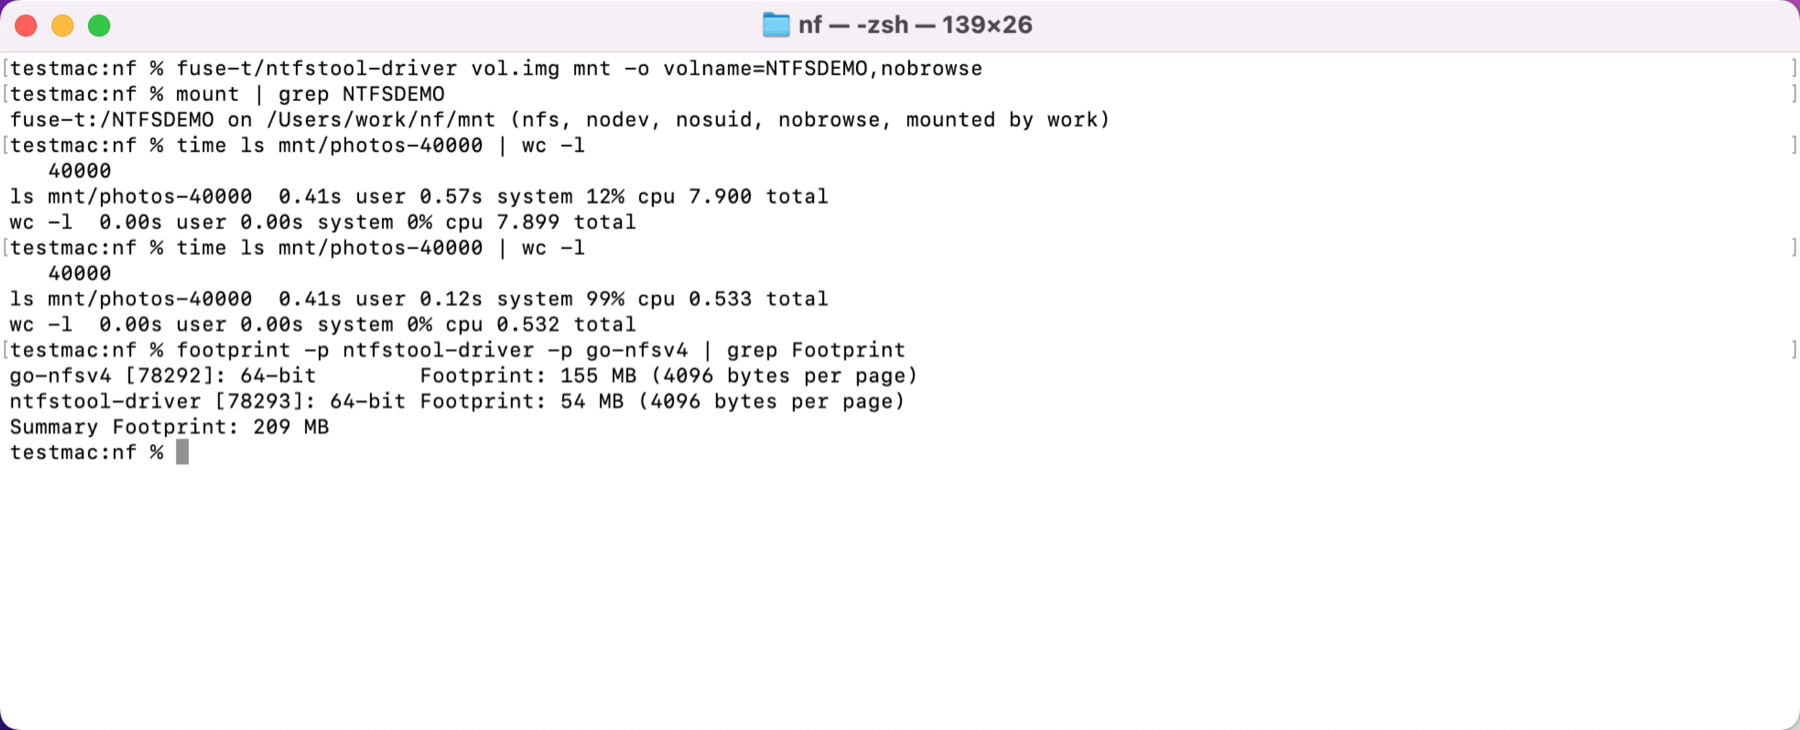
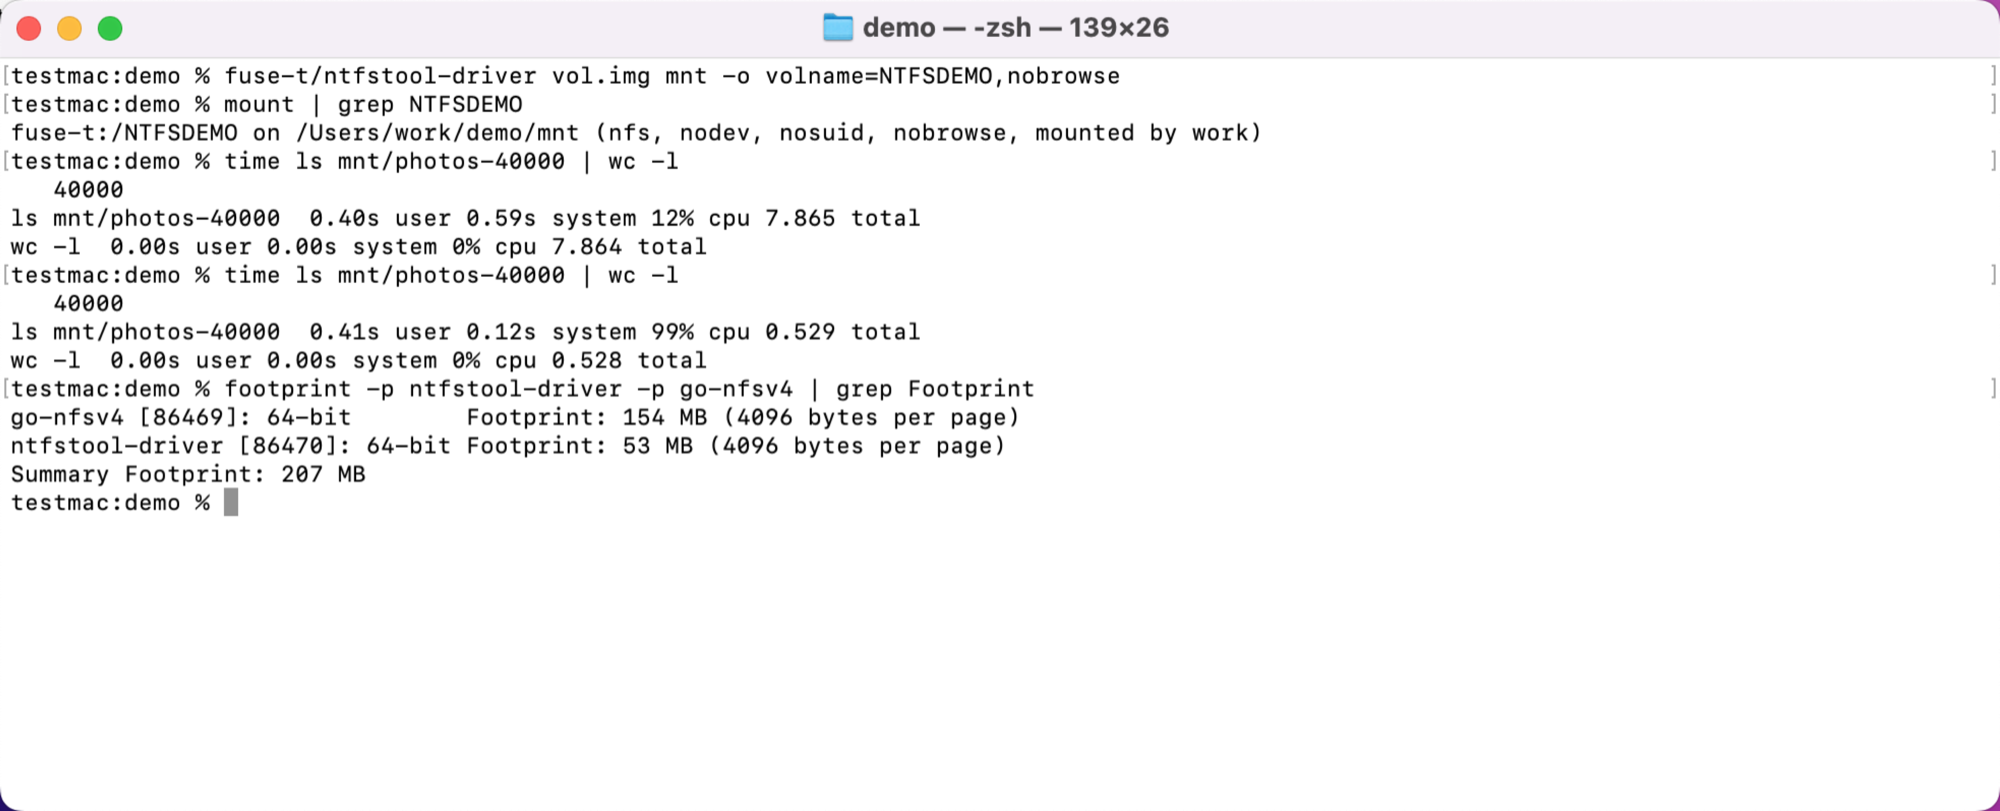
Re-shoot terminal screenshots on Intel macOS 12.7.6 and update README numbers (4.03 s / 44 MB vs 7.87 s / 207 MB)

diff --git a/README.de.md b/README.de.md
@@ -49,8 +49,8 @@ Dasselbe Volume-Image, eingehängt auf einem Intel-Mac mit macOS 12.7.6; ein Ver
 
 | OpenMacFUSE | FUSE-T 1.0.49 |
 |---|---|
-| ![Terminal: OpenMacFUSE listet 40,000 Dateien in 4.06 s auf, 43 MB](docs/images/terminal-openmacfuse.png) | ![Terminal: FUSE-T listet 40,000 Dateien in 7.90 s auf, 209 MB](docs/images/terminal-fuse-t.png) |
-| erstes Auflisten 4.06 s, Speicherbedarf 43 MB | erstes Auflisten 7.90 s, Speicherbedarf 209 MB |
+| ![Terminal: OpenMacFUSE listet 40,000 Dateien in 4.03 s auf, 44 MB](docs/images/terminal-openmacfuse.png) | ![Terminal: FUSE-T listet 40,000 Dateien in 7.87 s auf, 207 MB](docs/images/terminal-fuse-t.png) |
+| erstes Auflisten 4.03 s, Speicherbedarf 44 MB | erstes Auflisten 7.87 s, Speicherbedarf 207 MB |
 
 ### Wenn etwas schiefgeht
 

diff --git a/docs/BENCHMARKS.md b/docs/BENCHMARKS.md
@@ -41,11 +41,11 @@ macOS 13, 14, 15 and 26: not measured.
 | Sequential read, 1 GB | 4491 MB/s | 2129 MB/s |
 | Sequential write, 1 GB (including `sync`) | 1488 MB/s | 1181 MB/s |
 
-Directory listing, 40,000 files, `time ls dir | wc -l`, machine B, same image, measured on 2026-11-17 with the current defaults:
+Directory listing, 40,000 files, `time ls dir | wc -l`, machine B, same image, measured on 2026-11-18 with the current defaults:
 
 | Test | OpenMacFUSE | FUSE-T 1.0.49 |
 |---|---|---|
-| First listing after mount | 4.06 s | 7.90 s |
+| First listing after mount | 4.03 s | 7.87 s |
 | Second listing | 0.53 s | 0.53 s |
 
 The first listing includes the work that keeps `._` AppleDouble files out of the listing (`openmacfuse_xattr=adfile`, the default).

diff --git a/README.fr.md b/README.fr.md
@@ -49,8 +49,8 @@ La même image de volume montée sur un Mac Intel sous macOS 12.7.6, avec le lis
 
 | OpenMacFUSE | FUSE-T 1.0.49 |
 |---|---|
-| ![Terminal : OpenMacFUSE liste 40,000 fichiers en 4.06 s, 43 MB](docs/images/terminal-openmacfuse.png) | ![Terminal : FUSE-T liste 40,000 fichiers en 7.90 s, 209 MB](docs/images/terminal-fuse-t.png) |
-| premier listage 4.06 s, empreinte 43 MB | premier listage 7.90 s, empreinte 209 MB |
+| ![Terminal : OpenMacFUSE liste 40,000 fichiers en 4.03 s, 44 MB](docs/images/terminal-openmacfuse.png) | ![Terminal : FUSE-T liste 40,000 fichiers en 7.87 s, 207 MB](docs/images/terminal-fuse-t.png) |
+| premier listage 4.03 s, empreinte 44 MB | premier listage 7.87 s, empreinte 207 MB |
 
 ### En cas de problème
 

diff --git a/README.es.md b/README.es.md
@@ -49,8 +49,8 @@ La misma imagen de volumen montada en un Mac Intel con macOS 12.7.6, listando un
 
 | OpenMacFUSE | FUSE-T 1.0.49 |
 |---|---|
-| ![Terminal: OpenMacFUSE lista 40,000 archivos en 4.06 s, 43 MB](docs/images/terminal-openmacfuse.png) | ![Terminal: FUSE-T lista 40,000 archivos en 7.90 s, 209 MB](docs/images/terminal-fuse-t.png) |
-| primer listado 4.06 s, huella 43 MB | primer listado 7.90 s, huella 209 MB |
+| ![Terminal: OpenMacFUSE lista 40,000 archivos en 4.03 s, 44 MB](docs/images/terminal-openmacfuse.png) | ![Terminal: FUSE-T lista 40,000 archivos en 7.87 s, 207 MB](docs/images/terminal-fuse-t.png) |
+| primer listado 4.03 s, huella 44 MB | primer listado 7.87 s, huella 207 MB |
 
 ### Cuando algo va mal
 

diff --git a/README.md b/README.md
@@ -49,8 +49,8 @@ The same volume image mounted on an Intel Mac running macOS 12.7.6, listing a di
 
 | OpenMacFUSE | FUSE-T 1.0.49 |
 |---|---|
-| ![Terminal: OpenMacFUSE lists 40,000 files in 4.06 s, 43 MB](docs/images/terminal-openmacfuse.png) | ![Terminal: FUSE-T lists 40,000 files in 7.90 s, 209 MB](docs/images/terminal-fuse-t.png) |
-| first listing 4.06 s, footprint 43 MB | first listing 7.90 s, footprint 209 MB |
+| ![Terminal: OpenMacFUSE lists 40,000 files in 4.03 s, 44 MB](docs/images/terminal-openmacfuse.png) | ![Terminal: FUSE-T lists 40,000 files in 7.87 s, 207 MB](docs/images/terminal-fuse-t.png) |
+| first listing 4.03 s, footprint 44 MB | first listing 7.87 s, footprint 207 MB |
 
 ### When things go wrong
 
